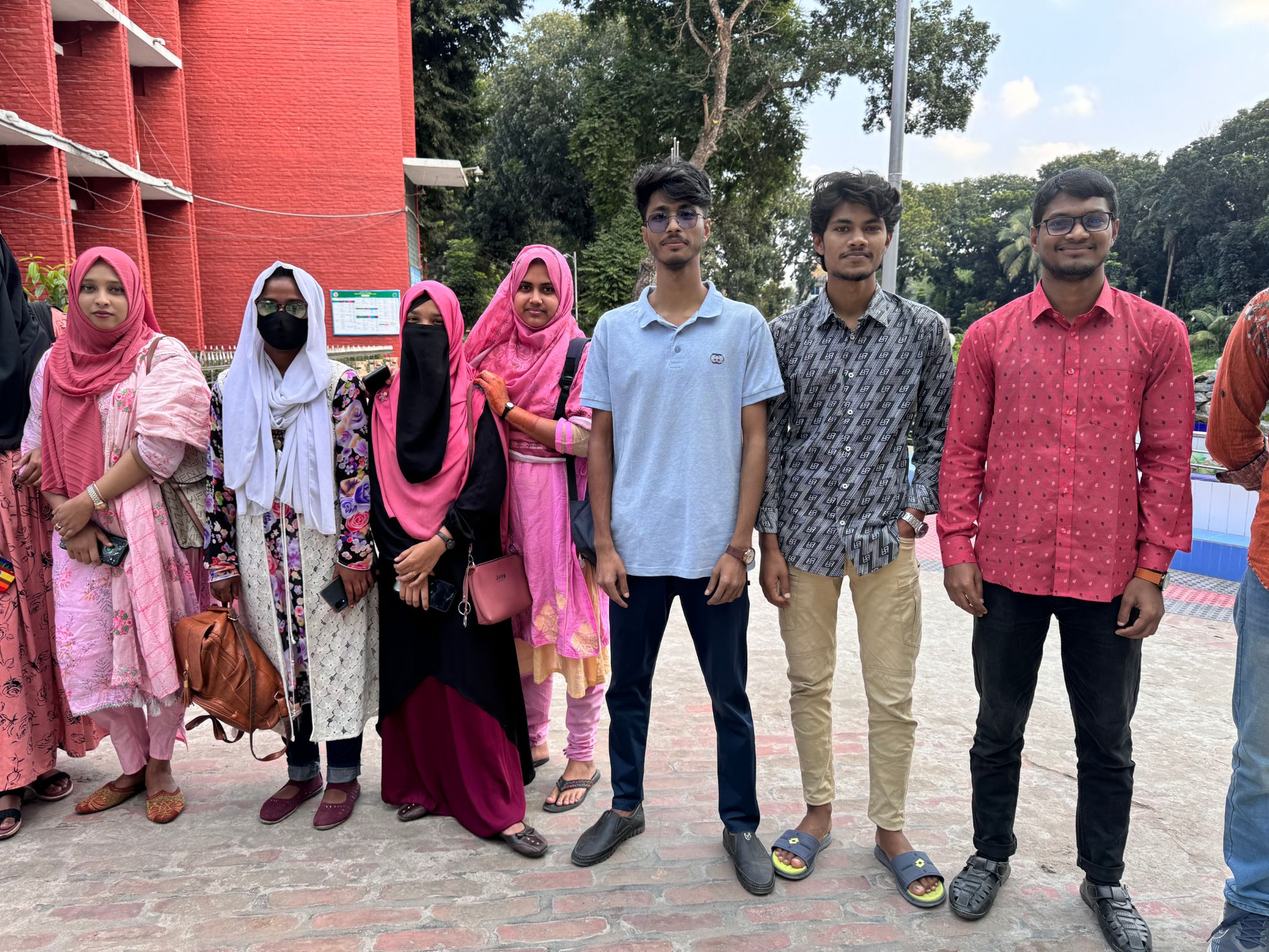
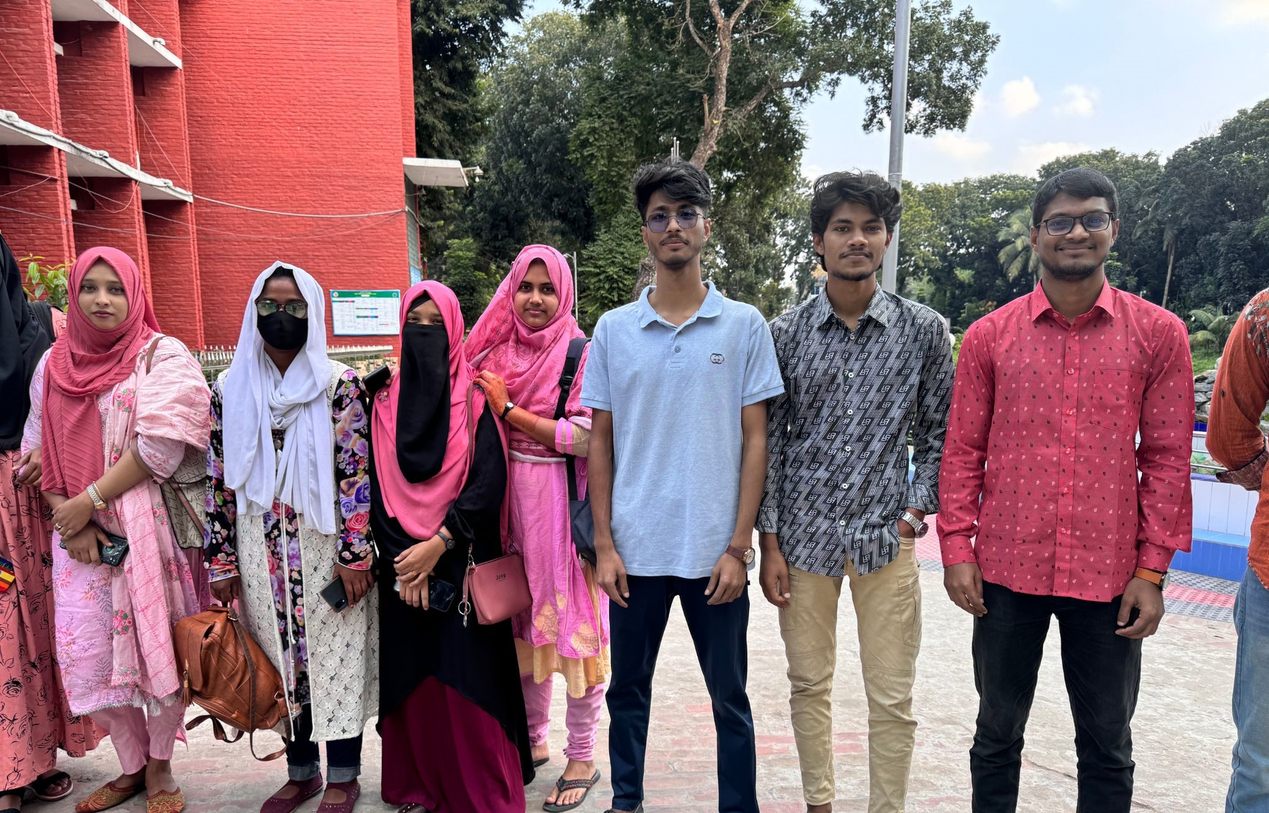
fix: update image import in Gallery component and adjust layout for better display

diff --git a/src/Components/Gallery/Gallery.jsx b/src/Components/Gallery/Gallery.jsx
@@ -3,7 +3,7 @@ import image2 from '../../assets/gallery/2.jpg'
 import image3 from '../../assets/gallery/3.jpg'
 import image4 from '../../assets/gallery/4.jpg'
 import image5 from '../../assets/gallery/5.jpg'
-import image6 from '../../assets/gallery/6.jpg'
+import image6 from '../../assets/gallery/7.jpg'
 
 const images = [
   {
@@ -50,8 +50,8 @@ const Gallery = () => {
             <div
               
               key={index}
-              className={`group relative flex h-48 items-end overflow-hidden rounded-lg bg-gray-100 shadow-lg ${
-                index === 1 || index === 2 ? "md:col-span-2 md:h-80" : "md:h-80"
+              className={`group relative flex h-48 items-center overflow-hidden rounded-lg bg-gray-100 shadow-lg ${
+                index === 1 || index === 2 || index=== 5 ? "md:col-span-2 md:h-96" : "md:h-96"
               }`}
             >
               <img
